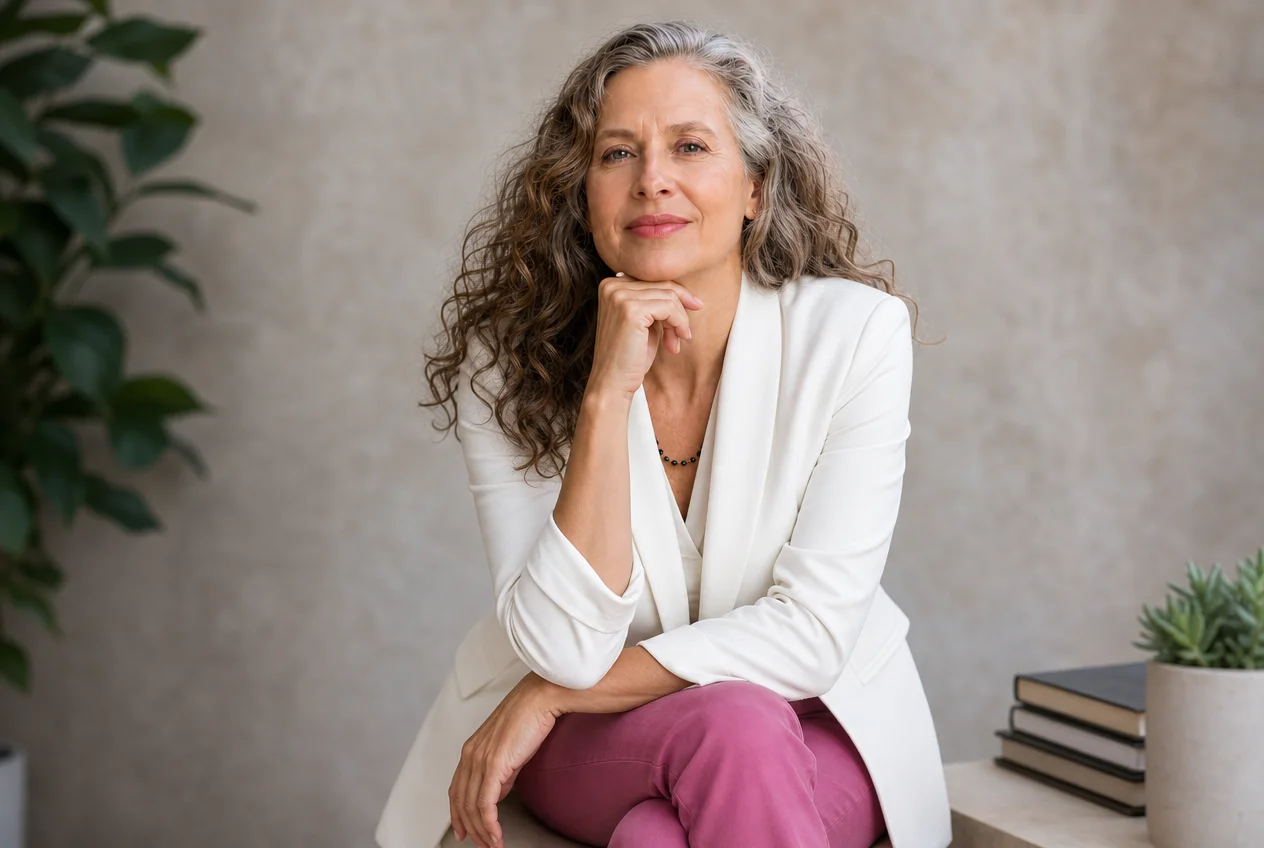
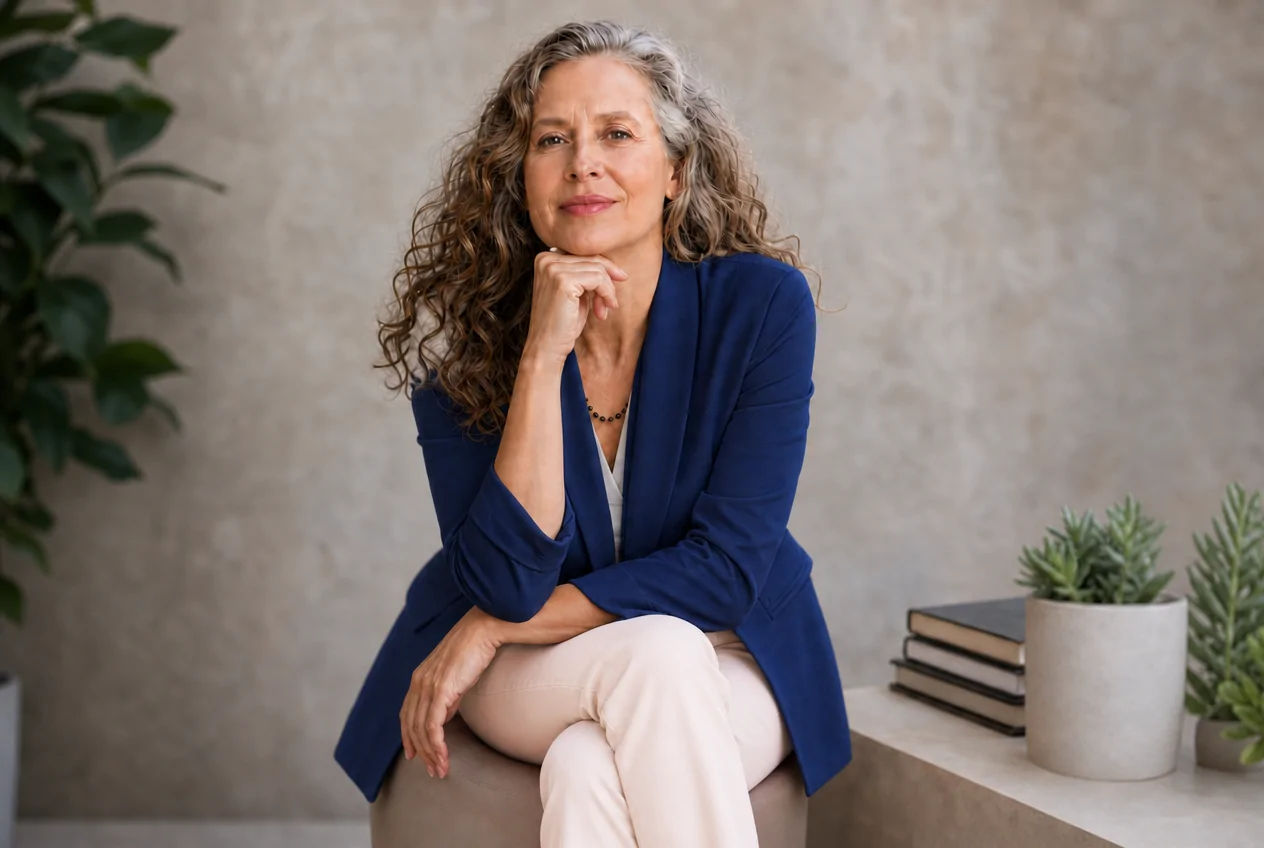
Put Else in the contact hero and swap Beatrice's portrait
From the contact v5 handoff: Else, the still image from the 404, stands
beside the lead with her feet on the Beatrice panel and a speech bubble
over her head, wrapping under the lead on narrow screens. The portrait
is the new navy-blazer photo with a 47% 25% crop.

Only the hero and the portrait were taken over; the reference's older
nav, badge and Beatrice copy were not. .else has no z-index, so the
image's multiply still blends with the panel under her feet. Her alt
text calls her "die 4else-Figur", per the naming rule.

diff --git a/app/[locale]/(site)/kontakt/page.module.css b/app/[locale]/(site)/kontakt/page.module.css
@@ -91,12 +91,76 @@
   text-wrap: balance;
 }
 
+/* The lead and Else side by side; Else wraps under the lead when the
+   column is too narrow for both. */
+.heroAside {
+  display: flex;
+  flex-wrap: wrap;
+  align-items: flex-end;
+  justify-content: space-between;
+  gap: clamp(12px, 2vw, 28px);
+}
+
 .lead {
-  margin: 0;
-  max-width: 44ch;
+  flex: 1 1 260px;
+  max-width: 36ch;
+  margin: 0 0 clamp(4px, 1vw, 12px);
   font-size: clamp(17px, 1.3vw, 20px);
   color: var(--text-body);
   text-wrap: pretty;
+}
+
+/* Else stands on the Beatrice panel: the negative bottom margin cancels
+   the hero's bottom padding plus the band's top padding, and overlaps
+   4px more. The 84px top margin is room for the bubble.
+   Positioned but deliberately without z-index: a z-index would make the
+   figure its own stacking context, and the image's multiply would then
+   blend with nothing. Positioned is enough to paint over the panel,
+   whose background is not positioned. */
+.else {
+  position: relative;
+  flex-shrink: 0;
+  width: 180px;
+  height: 260px;
+  margin: 84px 0 0 auto;
+  margin-bottom: calc(-1 * clamp(40px, 5vw, 64px) - clamp(8px, 1vw, 12px) - 4px);
+}
+
+.elseCrop {
+  position: absolute;
+  inset: 0;
+  overflow: hidden;
+}
+
+/* Crops the square source down to the figure (source x 280–1000,
+   y 70–1110). multiply drops the image's white ground on the white hero
+   and on the panel's off-white alike. */
+.elseImage {
+  position: absolute;
+  left: -70px;
+  top: -18px;
+  width: 314px;
+  height: auto;
+  max-width: none;
+  mix-blend-mode: multiply;
+}
+
+/* Never wider than Else, so it cannot reach the lead. The tight corner
+   points down at her. */
+.elseBubble {
+  position: absolute;
+  right: 4px;
+  bottom: calc(100% + 10px);
+  width: max-content;
+  max-width: 176px;
+  padding: 12px 16px;
+  border-radius: 18px 18px 4px 18px;
+  background: var(--brand);
+  color: var(--text-on-ink);
+  font-size: 14px;
+  font-weight: var(--w-semibold);
+  line-height: 1.35;
+  box-shadow: var(--shadow-float);
 }
 
 /* ── Beatrice band ──────────────────────────────────────────── */
@@ -130,7 +194,7 @@
    hands in frame both side by side and stacked. */
 .beatriceImage {
   object-fit: cover;
-  object-position: 52% 22%;
+  object-position: 47% 25%;
 }
 
 .beatriceText {

diff --git a/app/[locale]/(site)/kontakt/page.tsx b/app/[locale]/(site)/kontakt/page.tsx
@@ -11,15 +11,16 @@ import styles from './page.module.css';
 /* ============================================================
    4else — contact page
    ------------------------------------------------------------
-   Built from the design handoff "4else Kontakt", with the v4
-   update. Sections, in order: hero → Beatrice band → form and
+   Built from the design handoff "4else Kontakt", with the v4 and
+   v5 updates. Sections, in order: hero → Beatrice band → form and
    contact cards → FAQ → dark CTA band; the nav and footer come
    from the locale layout.
 
-   No dark hero and no mascot: those stay exclusive to the start
-   page. Instead the hero, the Beatrice band and the form sit on
-   one white block that runs up behind the sticky nav, so the bar
-   reads as white here.
+   No dark hero and no video: those stay exclusive to the start
+   page. Here Else appears as the light, still image, standing on
+   the Beatrice panel beside the lead. The hero, the Beatrice band
+   and the form sit on one white block that runs up behind the
+   sticky nav, so the bar reads as white here.
 
    The form has no backend yet — see components/contact/
    ContactForm.tsx. All copy lives in messages/de.json.
@@ -69,7 +70,23 @@ export default function KontaktPage({
                 {t.rich('headline', rich)}
               </h1>
             </div>
-            <p className={styles.lead}>{t('lead')}</p>
+            <div className={styles.heroAside}>
+              <p className={styles.lead}>{t('lead')}</p>
+              {/* Else, standing on the Beatrice panel below, with a speech
+                  bubble over her head. */}
+              <figure className={styles.else}>
+                <div className={styles.elseCrop}>
+                  <Image
+                    src="/images/404/else-sucht.webp"
+                    alt={t('elseImageAlt')}
+                    width={314}
+                    height={314}
+                    className={styles.elseImage}
+                  />
+                </div>
+                <figcaption className={styles.elseBubble}>{t('elseBubble')}</figcaption>
+              </figure>
+            </div>
           </div>
         </section>
 

diff --git a/CLAUDE.md b/CLAUDE.md
@@ -226,16 +226,31 @@ lists itself. Design handoff:
 `Z:\GoogleDrive\projects\4else\design_handoff_4else_kontakt\` (its
 `reference/index.html` is a self-unpacking bundle; the markup sits in the
 JSON-escaped string near the end of the file). The v4 update
-(`design_handoff_4else_kontakt_v4\`) added the Beatrice band.
+(`design_handoff_4else_kontakt_v4\`) added the Beatrice band; v5
+(`design_handoff_4else_kontakt_v5\`) put Else in the hero and swapped the
+portrait. The v5 reference still shows older nav, badge and Beatrice copy —
+only its hero and portrait were taken over.
 
 Sections: hero → Beatrice band → form + two pastel cards → FAQ → dark CTA
 band. Copy in the `kontakt` namespace, page title/description in
 `meta.kontakt*`.
 
-- **No dark hero, no mascot** — those stay exclusive to the start page. Hero,
+- **No dark hero, no video** — those stay exclusive to the start page. Hero,
   Beatrice band and form share one white block that is pulled up under the sticky nav
   (`.white`, the same `margin-top: calc(var(--nav-h) * -1)` trick the start
   page's hero uses), so the glass bar reads as white here.
+- **Else in the hero** (v5): the still image from the 404
+  (`public/images/404/else-sucht.webp`, cropped to the figure by
+  `.elseImage`) stands right of the lead, feet on the Beatrice panel's top
+  edge, with a navy speech bubble (`elseBubble`; alt `elseImageAlt`). Below
+  about 700px she wraps under the lead, right-aligned. Her negative bottom
+  margin is the hero's bottom padding + the band's top padding + 4px; change
+  either padding and change it too. `.else` is positioned but has **no
+  z-index** on purpose: a z-index would make it its own stacking context, and
+  the image's `multiply` would stop blending with the panel, leaving a pale
+  strip where her feet overlap it. Positioned is enough to paint over the
+  panel, whose background is not positioned. Neither section may clip
+  overflow.
 - **The page speaks in the first person singular** ("Sprich mit mir", "Schreib
   mir"): the client's wording, September 2026. Keep new contact-page copy in
   the same voice; the FAQ and the start page keep "wir".
@@ -245,10 +260,10 @@ band. Copy in the `kontakt` namespace, page title/description in
   also reads). It replaced the old "(01) Beratung & Demo" card, so the aside
   holds only (01) Support and (02) Besuch. Photo and text sit side by side
   from about 900px and stack below, photo first. The image is
-  `public/images/kontakt/beatrice-hohl.webp` (1264×848, original size; the
-  PNG original is in the handoff's `assets/`), cropped by
-  `object-position: 52% 22%` to keep her face and hands in frame at every
-  width. **`beatriceBody` is design copy, since revised once on Beatrice's
+  `public/images/kontakt/beatrice-hohl.webp` (1264×848, original size, WebP
+  q85 from the v5 handoff's `assets/beatrice-kontakt-glamour.png`), cropped by
+  `object-position: 47% 25%` to keep her face and hands in frame at every
+  width. After replacing it, clear `.next/cache/images`. **`beatriceBody` is design copy, since revised once on Beatrice's
   feedback (see below).**
 - **The form has no backend** (`components/contact/ContactForm.tsx`). Six
   topic chips (`topic1`–`topic6`) share one message placeholder
